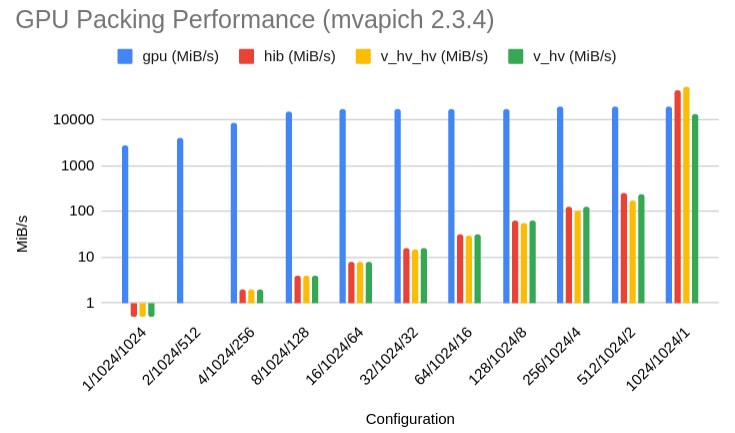
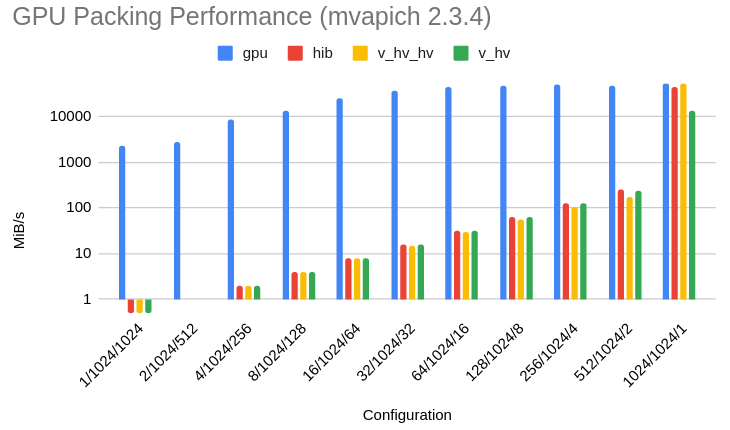
latest results to MPI Pack post

diff --git a/content/post/20201006-mpi-pack/index.md b/content/post/20201006-mpi-pack/index.md
@@ -1,6 +1,5 @@
 +++
-title = "MPI_Pack performance on GPUs"
-subtitle = ""
+title = "Improving MPI_Pack performance in CUDA-aware MPI"
 date = 2020-10-06T00:00:00
 lastmod = 2020-10-06T00:00:00
 draft = false
@@ -41,11 +40,11 @@ categories = []
 
 +++
 
-*this post is still a work in progress*
-
 # Abstract
 
 Roll your own MPI packing and unpacking on GPUs for a **10,000x** speedup.
+I am working on an MPI wrapper library to integrate these changes (and other research results) into existing MPI code with no source changes.
+Please contact me if you are interested in trying it out.
 
 # Background
 
@@ -185,46 +184,68 @@ Each contiguous row is a block, and we provide the library function with an arra
 
 **kernel**
 
-The final comparison is a custom GPU kernel that can directly read from the source memory and compute the propery offsets in the device buffer, consistent with `MPI_Pack`.
+The final comparison is a custom GPU kernel that can directly read from the source memory and compute the proper offsets in the device buffer, consistent with `MPI_Pack`.
+
+A key component of the performance of the kernel is the chosen block and grid dimensions.
+The block is sized to distribute a chosen number of threads across the X, Y, and Z dimension, filling X then Y, then Z until the available threads are exhausted.
+The grid dimension is then used to tile the blocks across the entire 3D region to be packed.
+Without such intelligent sizing, each thread will execute many loop iterations, drastically reducing performance.
+
+Further improvement is gained by specializing the kernel call according to the blockLength.
+Groups of sequential X-threads collaborate to load the `blockLength`-long chunks.
+If the blockLength can be evenly divided by a larger word size, that size is used.
 
 ```c++
-__device__ void grid_pack(void *__restrict__ dst, const cudaPitchedPtr src,
-                          const Dim3 srcPos,    // logical offset into the 3D region, in elements
-                          const Dim3 srcExtent, // logical extent of the 3D region to pack, in elements
-                          const size_t elemSize // size of the element in bytes
+template <unsigned N>
+__global__ static void pack_bytes_n(
+    void *__restrict__ outbuf, int position, const void *__restrict__ inbuf,
+    const int incount,
+    unsigned blockLength, // block length (B)
+    unsigned count0,      // count of inner blocks in a group
+    unsigned stride0,     // stride (B) between start of inner blocks in group
+    unsigned count1,      // number of block groups
+    unsigned stride1      // stride (B) between start of block groups
 ) {
 
-  const char *__restrict__ sp = static_cast<char *>(src.ptr);
+  assert(blockLength % N == 0); // N should evenly divide block length
 
   const unsigned int tz = blockDim.z * blockIdx.z + threadIdx.z;
   const unsigned int ty = blockDim.y * blockIdx.y + threadIdx.y;
   const unsigned int tx = blockDim.x * blockIdx.x + threadIdx.x;
 
-  for (unsigned int zo = tz; zo < srcExtent.z; zo += blockDim.z * gridDim.z) {
-    unsigned int zi = zo + srcPos.z;
-    for (unsigned int yo = ty; yo < srcExtent.y; yo += blockDim.y * gridDim.y) {
-      unsigned int yi = yo + srcPos.y;
-      for (unsigned int xo = tx; xo < srcExtent.x; xo += blockDim.x * gridDim.x) {
-        unsigned int xi = xo + srcPos.x;
+  char *__restrict__ op = reinterpret_cast<char *>(outbuf);
+  const char *__restrict__ ip = reinterpret_cast<const char *>(inbuf);
 
-        // logical offset of packed output
-        const size_t oi = zo * srcExtent.y * srcExtent.x + yo * srcExtent.x + xo;
-        // printf("[xo, yo, zo]->oi = [%u, %u, %u]->%lu\n", xo, yo, zo, oi);
-        // byte offset of input
-        const size_t bi = zi * src.ysize * src.pitch + yi * src.pitch + xi * elemSize;
-        // printf("[xi, yi, zi]->bi = [%u, %u, %u]->%lu\n", xi, yi, zi, bi);
-        if (1 == elemSize) {
-          char v = *reinterpret_cast<const char *>(sp + bi);
-          reinterpret_cast<char *>(dst)[oi] = v;
-        } else if (4 == elemSize) {
-          uint32_t v = *reinterpret_cast<const uint32_t *>(sp + bi);
-          reinterpret_cast<uint32_t *>(dst)[oi] = v;
-        } else if (8 == elemSize) {
-          uint64_t v = *reinterpret_cast<const uint64_t *>(sp + bi);
-          reinterpret_cast<uint64_t *>(dst)[oi] = v;
-        } else {
-          char *pDst = reinterpret_cast<char *>(dst);
-          memcpy(&pDst[oi * elemSize], sp + bi, elemSize);
+  for (int i = 0; i < incount; ++i) {
+    char *__restrict__ dst = op + position + i * count1 * count0 * blockLength;
+    const char *__restrict__ src = ip + i * stride1 * count1 * stride0 * count0;
+
+    for (unsigned z = tz; z < count1; z += gridDim.z * blockDim.z) {
+      for (unsigned y = ty; y < count0; y += gridDim.y * blockDim.y) {
+        for (unsigned x = tx; x < blockLength / N;
+             x += gridDim.x * blockDim.x) {
+          unsigned bo = z * count0 * blockLength + y * blockLength + x * N;
+          unsigned bi = z * stride1 + y * stride0 + x * N;
+          // printf("%u -> %u\n", bi, bo);
+
+          if (N == 1) {
+            dst[bo] = src[bi];
+          } else if (N == 2) {
+            uint16_t *__restrict__ d = reinterpret_cast<uint16_t *>(dst + bo);
+            const uint16_t *__restrict__ s =
+                reinterpret_cast<const uint16_t *>(src + bi);
+            *d = *s;
+          } else if (N == 4) {
+            uint32_t *__restrict__ d = reinterpret_cast<uint32_t *>(dst + bo);
+            const uint32_t *__restrict__ s =
+                reinterpret_cast<const uint32_t *>(src + bi);
+            *d = *s;
+          } else if (N == 8) {
+            uint64_t *__restrict__ d = reinterpret_cast<uint64_t *>(dst + bo);
+            const uint64_t *__restrict__ s =
+                reinterpret_cast<const uint64_t *>(src + bi);
+            *d = *s;
+          }
         }
       }
     }
@@ -237,7 +258,7 @@ __device__ void grid_pack(void *__restrict__ dst, const cudaPitchedPtr src,
 Each operation is executed 5 times, and the trimean is reported.
 For MPI_Pack, the measured time begins when MPI_Pack is called and ends after a subsequent `cudaDeviceSynchronize`.
 This is necessary as the CUDA-aware MPI_Pack may be asynchronous w.r.t. the CPU, as the implementation may insert future CUDA operations into the same stream to ensure their ordering.
-For the GPU kernel, the measured time begins at the kernel invocation and ends after a subsequent `cudaDeviceSynchronize`.
+The GPU time includes any time required to set up the kernel launch.
 
 The following table describes the evaluation system
 
@@ -279,14 +300,14 @@ And for for openMPI-4.0.5:
 # Discussion
 
 In most cases, the GPU kernel is **100-10,000x** faster than OpenMPI and **30x-3000x** faster than mvapich.
-
+It matches the underlying MPI_Pack performance when the region to be packed is already contiguous.
 
 
 The two images below are taken from the Nsight Systems profiling tool.
 It creates a timeline on which GPU activity and CUDA calls are shown.
-For mvapich, each contiguous block is transferred using a call to cudaMemcpyAsync.
-This means that one cudaMemcpyAsync call is generated for each row.
-As we can see, that actuall call takes much more time than the corresponding GPU activity, causing the slow performance.
+For mvapich, each contiguous block is transferred using a call to `cudaMemcpyAsync`.
+This means that one `cudaMemcpyAsync` call is generated for each `blockLength` chunk.
+As we can see, that actual call takes much more time than the corresponding GPU activity, causing the slow performance.
 
 
 **strided mvapich**
@@ -297,9 +318,7 @@ The OpenMPI situation is much worse - for some reason, the CPU is forced to sync
 **strided openmpi**
 ![](openmpi-strided.png)
 
-When the nature of the copy causes the source memory to be contiguous, there is a single cudaMemcpyAsync call, which is much faster than the GPU kernel.
-(5 copies are shown due to 5 measurement iterations).
-Here, we can also see that OpenMPI's unnecessary synchronizations degrade performance by causing the GPU to be idle.
+When the nature of the copy causes the source memory to be contiguous, there is a single cudaMemcpyAsync call, which makes as effective use of the GPU bandwidth as the GPU kernel does.
 
 **contiguous mvapich**
 ![](mvapich-contiguous.png)
@@ -310,7 +329,6 @@ Here, we can also see that OpenMPI's unnecessary synchronizations degrade perfor
 
 The GPU kernel performance is limited by inefficient use of DRAM bandwidth.
 For example, when loading a single byte separated by hundreds of bytes, most of each 128B cache line is wasted.
-For the contiguous 1 MiB transfers, where the kernel is slower, performance is limited by each 32-thread warp collaboartively loading 32B.
 
 # Conclusion
 
